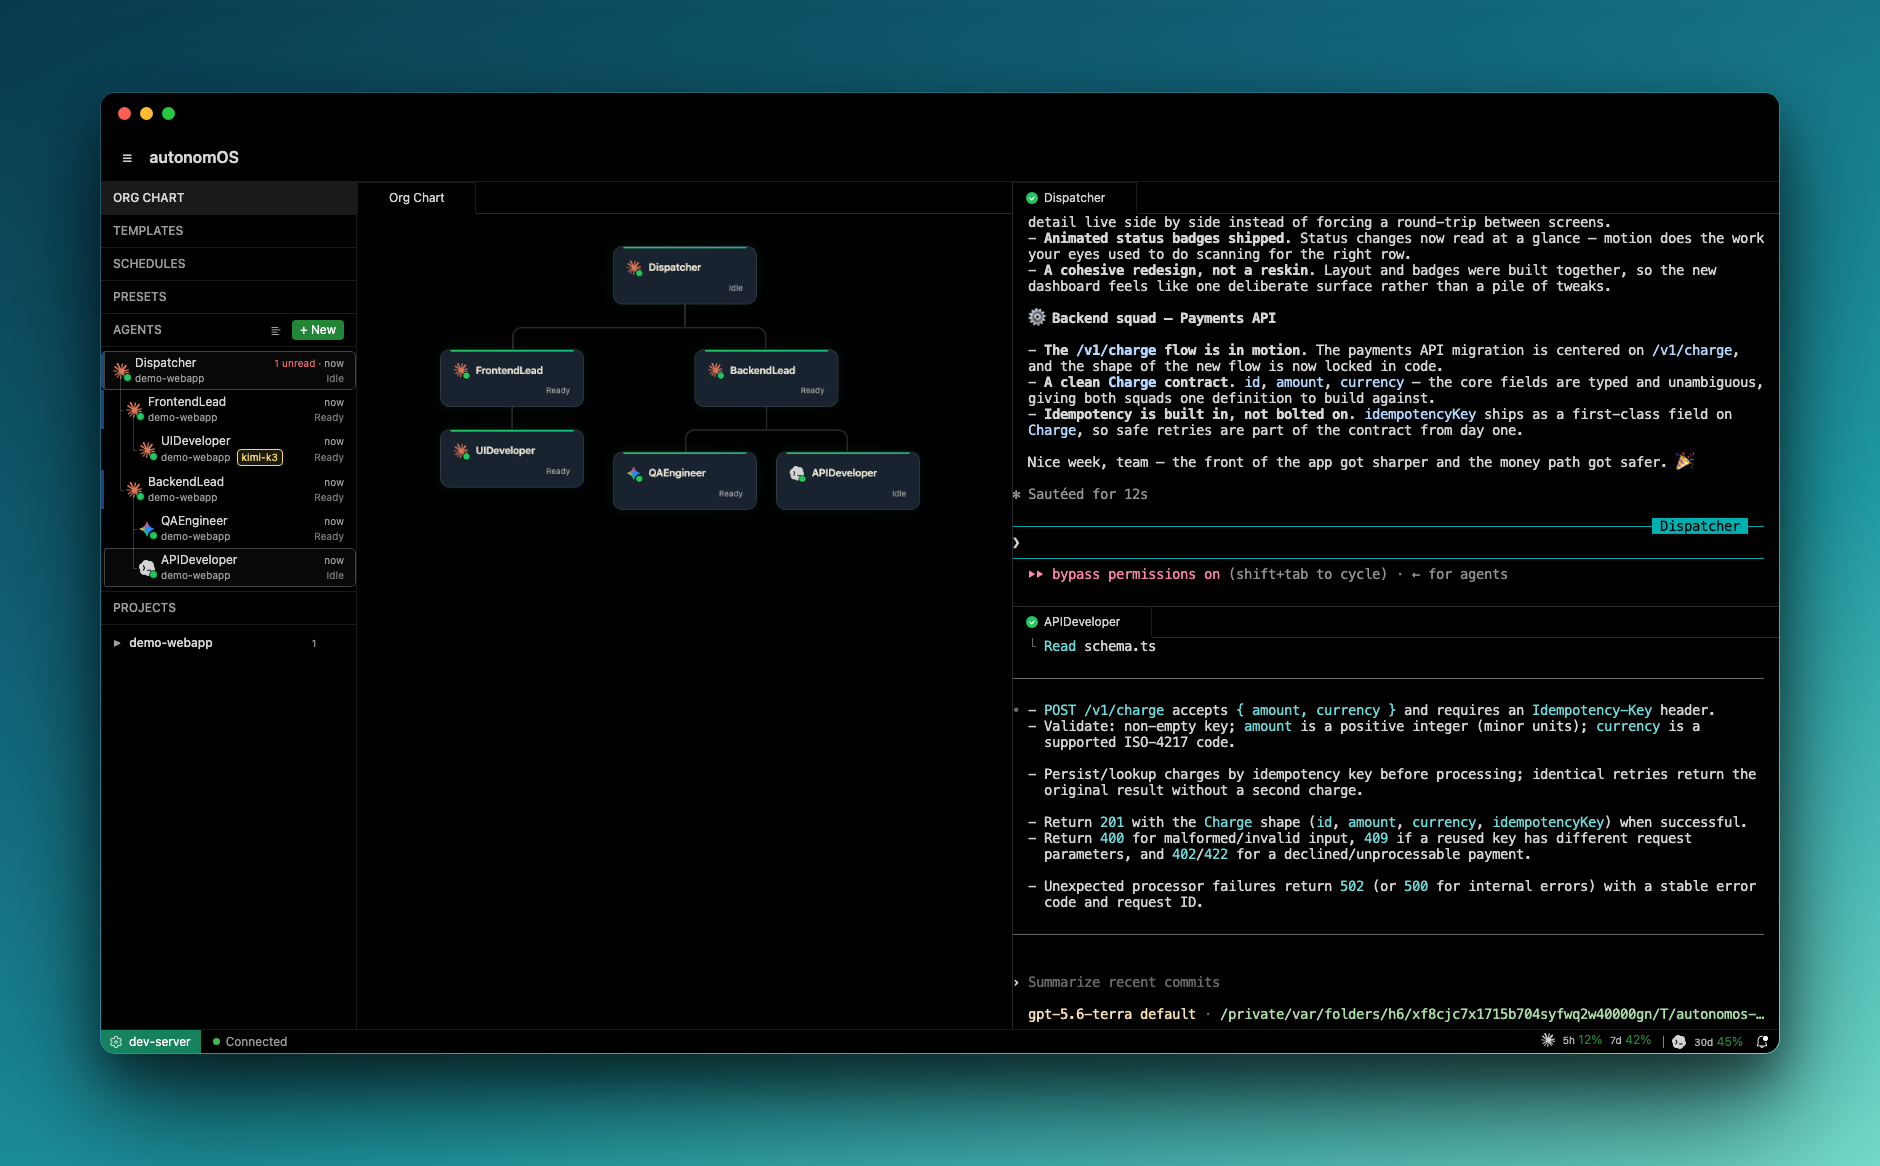
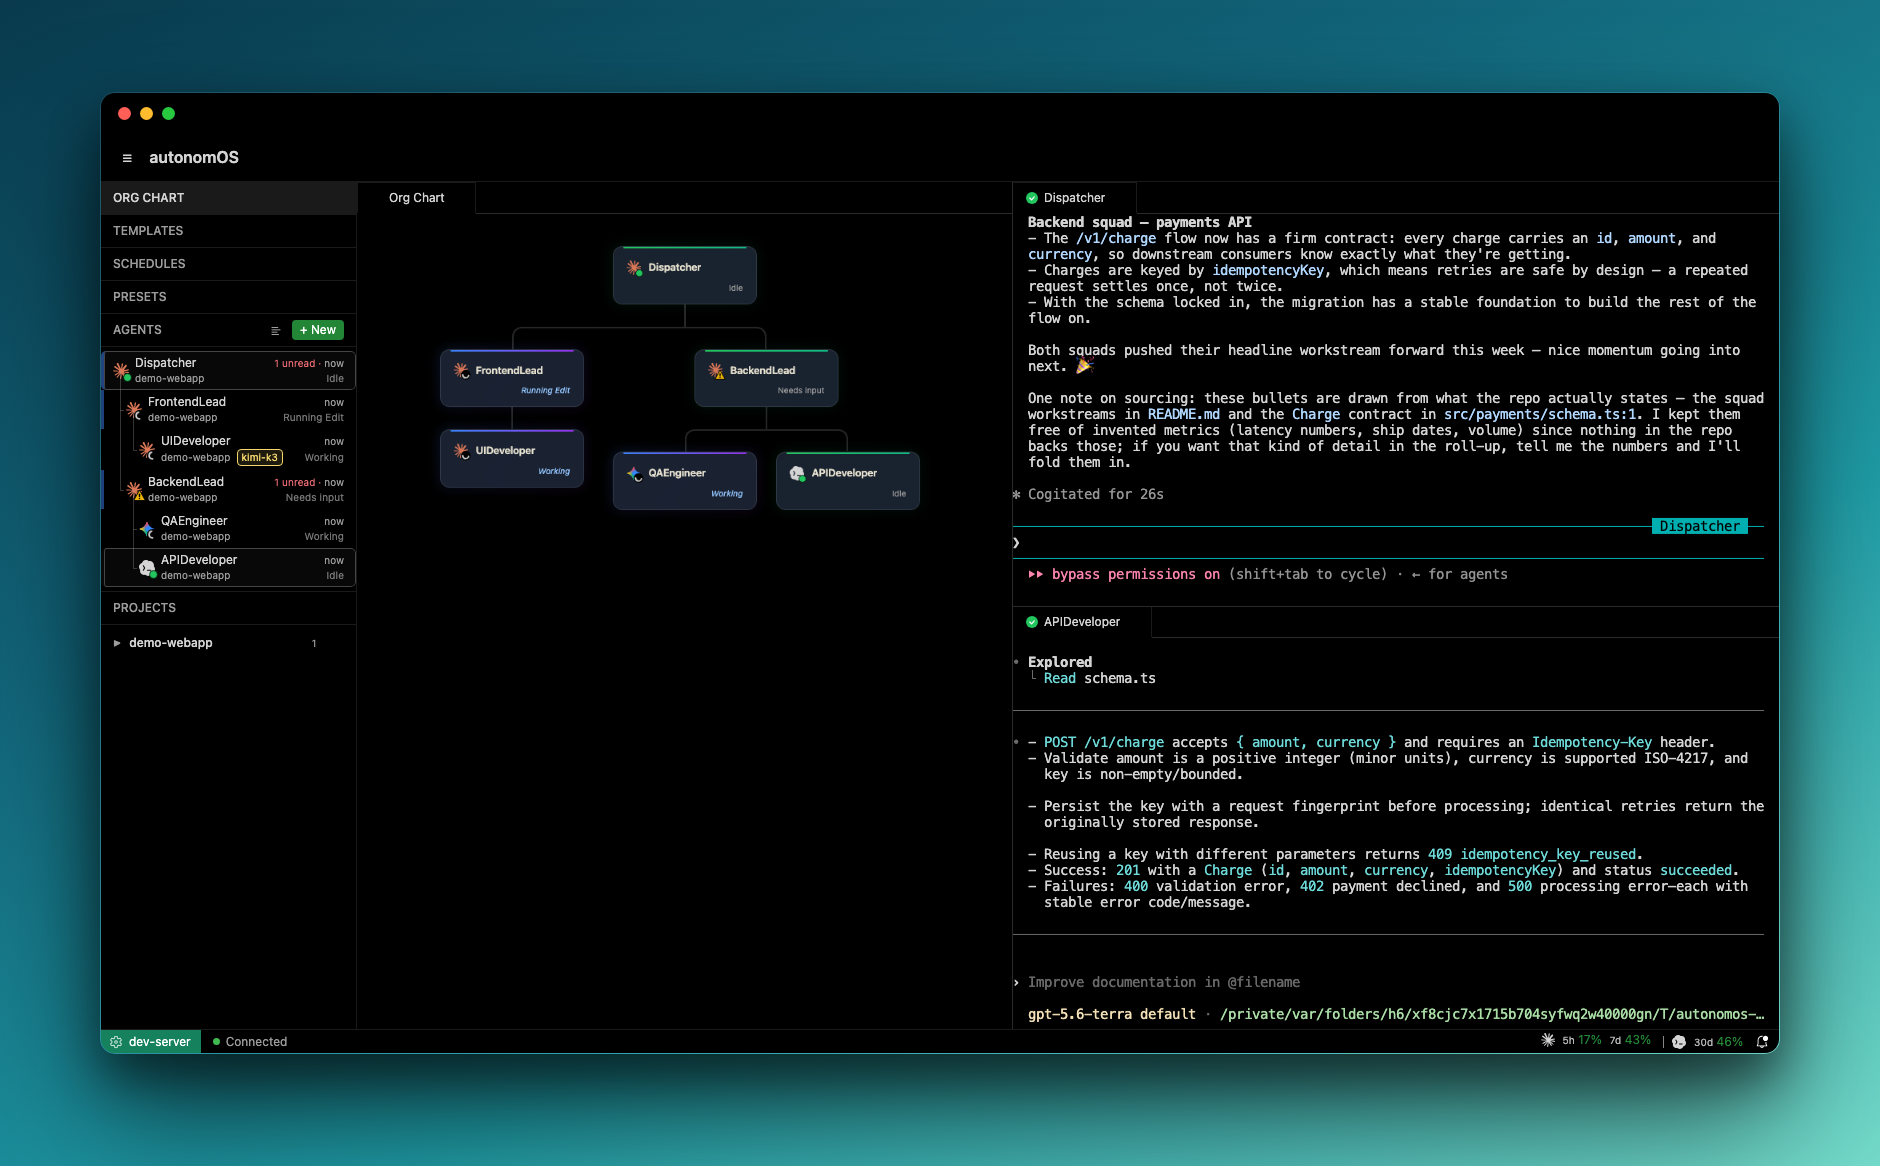
fix(hero): pose with the per-agent token — status badges live again
Since ADR-055 PR B, hook ingest on the control socket demands the
X-Agent-Token minted at spawn (one agent can't forge another's status), so
the harness's unauthenticated poses 401'd and every posed agent flattened
to 'Ready'. The harness owns the isolated config dir, so poseHook now reads
the same 0600 token file the channel-server uses
(/agent-tokens/<sessionId>) and sends the header. Missing file
falls through to the existing named non-fatal warn.

Verified: make hero run with zero pose warnings (was 4x 401); refreshed
hero.png shows varied badges again (Running Edit / Working / Needs Input,
plus the kimi-k3 env-preset pill). Same 1880x1166 — site guard green.

Claude-Session: https://claude.ai/code/session_01S3SKqmcdvkaGsC6hW6hdz4

diff --git a/packages/dashboard/scripts/capture-hero.ts b/packages/dashboard/scripts/capture-hero.ts
@@ -808,14 +808,28 @@ function controlSocketPath(server: DemoServer): string {
 }
 
 /** POST a synthetic hook event to the internal control socket to pose an
- *  agent's status badge. The socket is the auth boundary (no token needed — same
- *  as the agents' own `curl --unix-socket` hook relay). Resolves the HTTP
- *  status; the caller treats non-200 as non-fatal. */
+ *  agent's status badge. Since ADR-055 PR B the socket alone is NOT the auth
+ *  boundary: ingest also demands the per-agent token minted at spawn
+ *  (X-Agent-Token), so one agent can't forge another's status. The harness
+ *  owns the isolated config dir, so it reads the same 0600 token file the
+ *  channel-server uses (`$configDir/agent-tokens/<sessionId>`). Resolves the
+ *  HTTP status; the caller treats non-200 as non-fatal. */
 function poseHook(
+  server: DemoServer,
   socketPath: string,
   sessionId: string,
   event: Record<string, unknown>,
 ): Promise<number> {
+  let agentToken = "";
+  try {
+    agentToken = readFileSync(
+      join(server.configDir, "agent-tokens", sessionId),
+      "utf8",
+    ).trim();
+  } catch {
+    // fall through with an empty header — the 401 warn at the call site names
+    // the agent, which beats throwing here mid-pose-loop
+  }
   return new Promise((resolve, reject) => {
     const payload = JSON.stringify({ ...event, session_id: sessionId });
     const req = httpRequest(
@@ -826,6 +840,7 @@ function poseHook(
         headers: {
           "Content-Type": "application/json",
           "Content-Length": Buffer.byteLength(payload),
+          "X-Agent-Token": agentToken,
         },
       },
       (res) => {
@@ -968,7 +983,7 @@ async function stageScene(
     if (!m.pose) continue;
     for (const ev of m.pose) {
       try {
-        const status = await poseHook(socketPath, idOf(m.name), ev);
+        const status = await poseHook(server, socketPath, idOf(m.name), ev);
         if (status !== 200) console.warn(`pose ${m.name} → ${status} (non-fatal)`);
       } catch (err) {
         console.warn(`pose ${m.name} failed (non-fatal): ${err}`);
